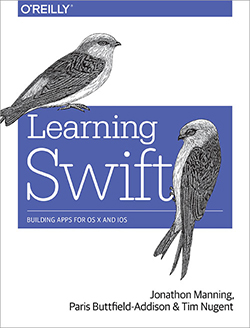
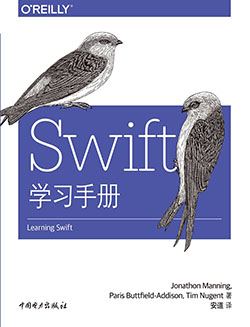
Update learning-swift info

Changed region(s): [[0.0, 0.0, 1.0, 1.0], [0.056, 0.0, 0.308, 0.0612], [0.896, 0.0, 0.952, 0.0612]]

diff --git a/_books/learning-swift.md b/_books/learning-swift.md
@@ -5,20 +5,99 @@ book_category: other
 
 ## 简介
 
-加工中……
+本书分为四部分，涵盖以下内容：Swift 基础知识：学习 Swift 的面向对象特性，以及各种开发工具。OS X 应用开发：规划应用，处理文档，然后构建各项功能。iOS 应用开发：使用多媒体、联系人、位置、通知和 iCloud 构建一个功能完善的 iOS 记事本应用。高级应用扩展：支持 Apple Watch，学习如何调试、监控和测试全部三个 Swift 应用。
 
 ## 作者
 
-加工中……
+**Paris Buttfield-Addison** 是一位作者，还是 Secret Lab（与 Jon 联合创建）的游戏设计师。他是计算机博士，还有中世纪史学位。Paris 的个人网站地址是 _www.paris.id.au_，Twitter 账号是 @parisba。
+
+**Jon Manning** 是 iOS 软件工程师、独立游戏开发者和作者。除了写书之外，他在 Secret Lab（与 Paris 联合创建）设计和构建游戏。 Jon 是计算机博士，研究领域是社交媒体网站的排名系统。Jon 的 Twitter 账号是 @desplesda。
+
+**Tim Nugent** 自称是移动应用开发者、游戏设计师、博士生，现在甚至自称是作者。他一直忙于避免别人发现他，在此之外，他会设计和创建小应用和游戏，但是不让任何人使用。为了写这么一小段个人简介，他花了相当长的时间。他尝试以诙谐的文字引用科幻小说，但是最终放弃了。Tim 的 Twitter 账号是 @The_McJones。
 
 ## 目录
 
-加工中……
+-   前言
+-   第一部分 Swift 基础
+    - 第 1 章 新手入门
+    - 第 2 章 Swift 基础
+    - 第 3 章 Swift 面向对象应用开发
+-   第二部分 构建一个 OS X 应用
+    - 第 4 章 构建 OS X 记事本应用的前期准备工作
+    - 第 5 章 在 OS X 中处理文档
+    - 第 6 章 用户界面和 iCloud
+-   第三部分 构建一个 iOS 应用
+    - 第 7 章 构建 iOS 记事本应用的前期准备工作
+    - 第 8 章 处理 iCloud 中的文件
+    - 第 9 章 在 iOS 中处理文档
+    - 第 10 章 处理文件和文件类型
+    - 第 11 章 图像和删除
+    - 第 12 章 支持 iOS 生态系统
+    - 第 13 章 扩展 iOS 应用
+    - 第 14 章 多媒体、联系人、位置和通知
+    - 第 15 章 改进这个 iOS 应用
+-   第四部分 扩展应用
+    - 第 16 章 构建一个 watchOS 应用
+    - 第 17 章 代码质量和应用分发
 
 ## 大事记
 
-加工中……
+- 2016.05.26 确定翻译
+- 2016.09.27 交稿
+- 2017.03 出版
 
 ## 词汇表
 
-加工中……
+书中有大量术语，翻译过程中主要参照“[全国科学技术名词审定委员会](http://www.term.gov.cn/)”审定的词汇表，也参阅了已出版的相关书籍，以及 Apple 中文网站。
+
+| 英文 | 中文 | 备注 |
+|-----|------|-----|
+| action sheet | 动作附着对话框 | |
+| alert | 提示框 | |
+| asset catalog | 静态资源目录 | |
+| attributed string | 属性化字符串 | |
+| bundle ID | 构建包 ID | |
+| closed-range operator | 全闭值域运算符 | |
+| computed property | 计算属性 | |
+| conform to | 符合 | |
+| convenience initializer | 便利初始化方法  | |
+| deinitialization | 终止化 | |
+| designated initializer | 指定初始化方法 | |
+| Developer Program | 开发者计划 | |
+| failable initializer | 可失败初始化方法 | |
+| file coordinator | 文件协调器 | |
+| file wrapper | 文件包装器 | |
+| gesture recognizer | 手势识别器 | |
+| Glance | 速览 | Apple Watch 的一个功能 | 
+| half-range operator | 半开值域运算符 | |
+| home screen | 主屏幕 | |
+| image picker | 图像拾取器 | |
+| In-App Purchase | 应用内购买 | |
+| inspector | 审查器 | |
+| interface builder | 界面构建程序 | |
+| jump bar | 跳转栏 | |
+| layout guide | 布局向导 | |
+| lazy property | 惰性属性 | |
+| memberwise initializer | 成员初始化方法 | |
+| navigator | 导航面板 | |
+| nil coalescing operator | 空合运算符 | |
+| observer | 观测器 | |
+| pinch | 双指开合（手势） | |
+| popover | 弹出框 | |
+| Quick Action | 快速操作 | |
+| Quick Look | 快速查看 | |
+| retain count | 保有量 | |
+| retain cycle | 保留环 | |
+| run loop | 运行循环 | |
+| scheme selector | 方案选择区 | |
+| segue |  | 不翻译 |
+| sheet | 附着对话框 | |
+| simulator | 模拟器 | |
+| stored property | 存储属性 | |
+| storyboard | 故事板 | |
+| subscript | 下标 | |
+| swipe | 轻扫（手势） | |
+| tap | 轻点（手势） | |
+| uniform type identifier | 统一类型标识符 | |
+| weak reference | 弱引用 | |
+{:class="table table-bordered"}
